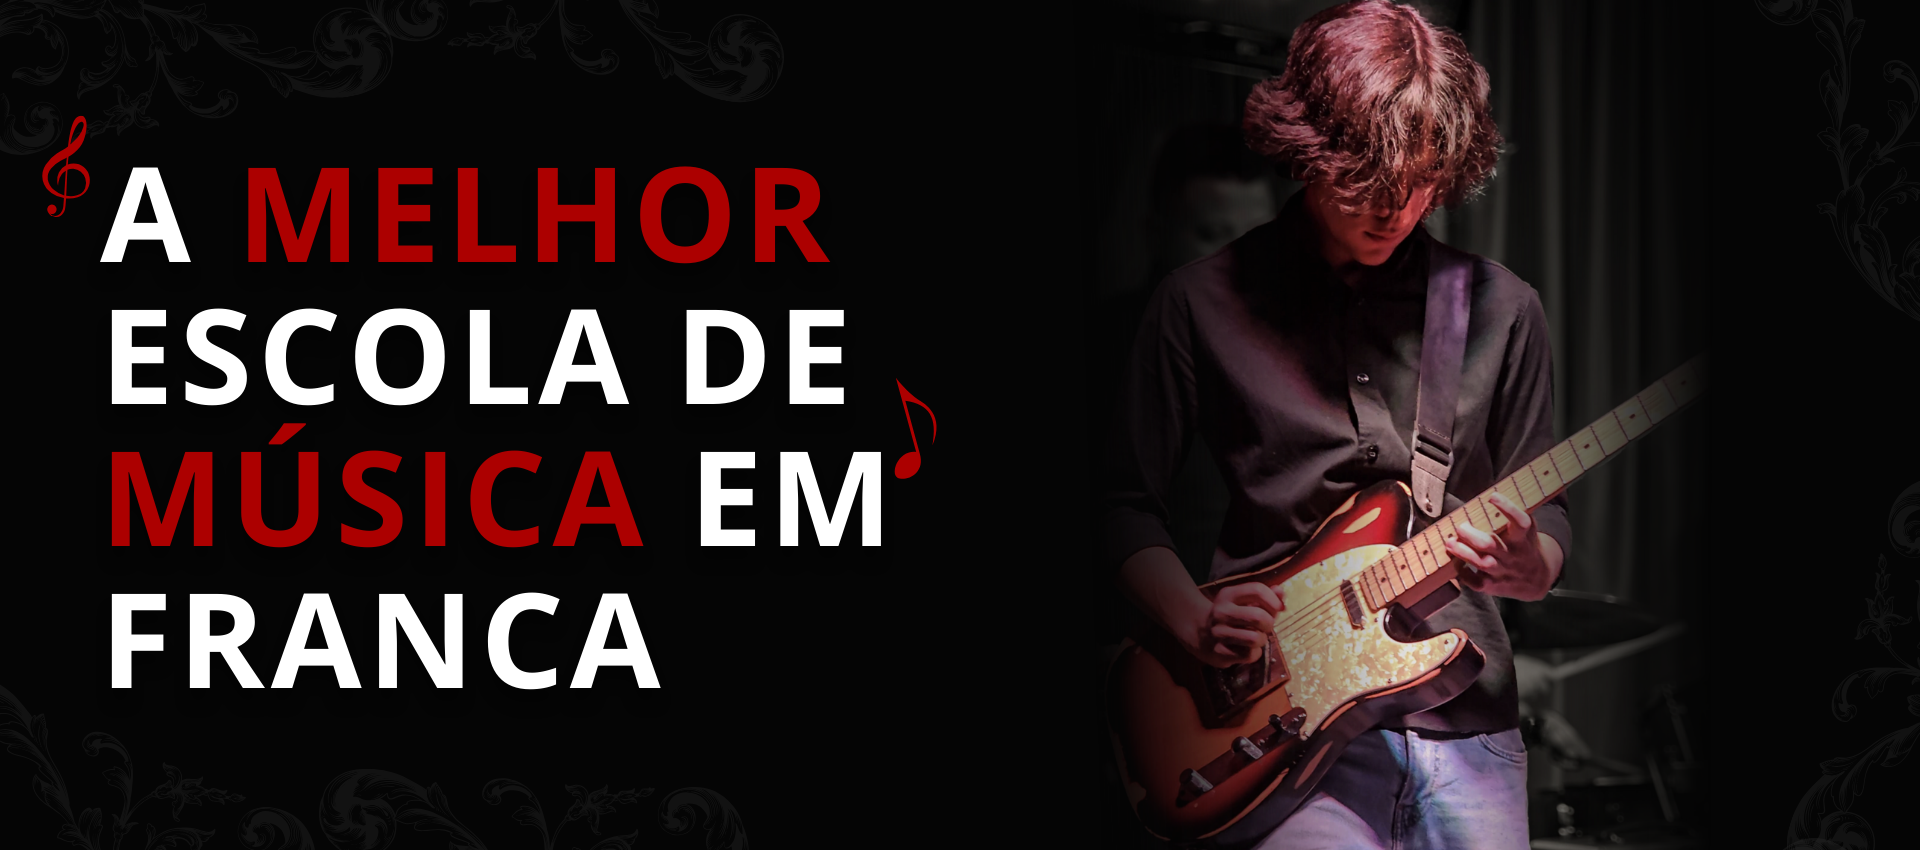
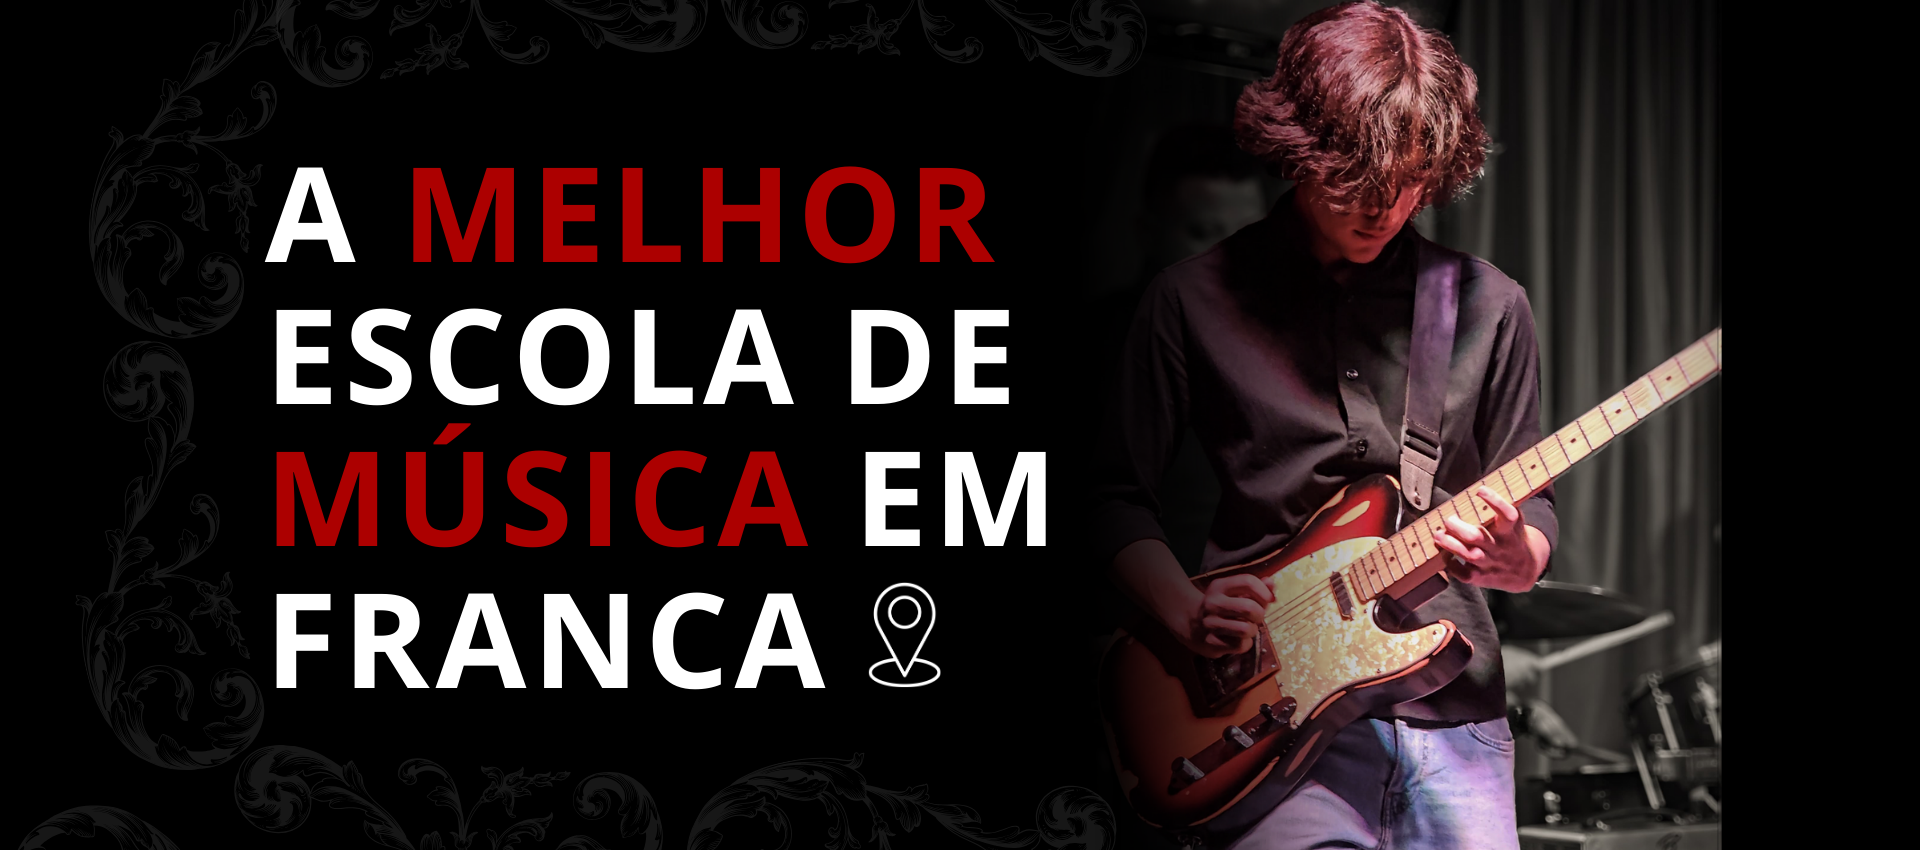
Alterações na responsividade e aba de contato atualizada

diff --git a/index.html b/index.html
@@ -15,15 +15,15 @@
             <!-- LOGO -->
             <div class="">
                 <a href="#home" class="flex items-center">
-                    <img src="assets/Logo.png" alt="Protazio Music Logo" class="w-64 h-20">
+                    <img src="assets/Logo.png" alt="Protazio Music Logo" class="xl:w-64 xl:h-20 w-44 h-16">
                 </a>
             </div>
             <!-- BOTÃO MOBILE -->
-            <button id="menu-btn" class="lg:hidden focus:outline-none">
+            <button id="menu-btn" class="xl:hidden focus:outline-none">
                 <img src="assets/Menu.png" alt="Menu" class="w-8 h-8">
             </button>
             <!-- MENU DESKTOP -->
-            <ul class="hidden lg:flex gap-10 text-2xl font-normal uppercase">
+            <ul class="hidden xl:flex gap-10 text-2xl font-normal uppercase">
                 <li><a href="#sobre" class="hover:text-red-700">Sobre</a></li>
                 <li><a href="#cursos" class="hover:text-red-700">Cursos</a></li>
                 <li><a href="#professores" class="hover:text-red-700">Professores</a></li>
@@ -32,7 +32,7 @@
             </ul>
         </div>
         <!-- MENU MOBILE -->
-        <div id="mobile-menu" class="hidden lg:hidden bg-black text-white px-8 pb-4">
+        <div id="mobile-menu" class="hidden xl:hidden bg-black text-white px-8 pb-4">
             <ul class="flex flex-col gap-4 text-xl font-normal uppercase">
                 <li><a href="#sobre" class="hover:text-red-700">Sobre</a></li>
                 <li><a href="#cursos" class="hover:text-red-700">Cursos</a></li>
@@ -53,7 +53,7 @@
     <section>
         <div class="relative w-full overflow-hidden">
             <div class="carousel flex transition-transform duration-500 ease-in-out">
-                <img src="assets/Banner1.png" class="w-full flex-shrink-0 object-cover" alt="Slide 1">
+                <img src="assets/Banner3.png" class="w-full flex-shrink-0 object-cover" alt="Slide 1">
                 <img src="assets/Banner2.png" class="w-full flex-shrink-0 object-cover" alt="Slide 2">
             </div>
             <!-- Botões -->
@@ -191,11 +191,51 @@
             <p class="md:mx-20 md:mt-10 mx-5 mt-5 md:text-4xl text-2xl leading-10 text-justify">Nosso Show de Alunos é um evento especial onde celebramos o talento e a dedicação dos nossos alunos. É a oportunidade perfeita para mostrar o que você aprendeu, tocar com outros músicos e se apresentar em um ambiente acolhedor e cheio de energia positiva.</p>
         </section>
         <!-- CONTATO -->
-        <section id="contato" class="bg-slate-50">
+        <section id="contato" class="bg-slate-50 pb-10">
             <H1 class="mt-20 uppercase text-center md:text-7xl text-5xl font-semibold text-black">Contato</H1>
-            <div class="grid grid-cols-1 lg:grid-cols-2 gap-8">
+            <div class="grid grid-cols-1 lg:grid-cols-2 gap-8 mx-10 my-20">
                 <div>
-                    <img src="" alt="">
+                    <img src="assets/Escola.webp" alt="Escola Protázio Music" class="w-full h-full rounded-2xl shadow-lg">
+                </div>
+                <div class="text-center text-black mx-10">
+                    <h2 class="uppercase text-5xl mb-5 font-medium">Vem se Juntar a escola!</h2>
+                    <p class="text-justify text-2xl my-3">Se você quer agendar uma aula experimental, tirar dúvidas ou saber mais sobre nossos cursos, responda o formulário!</p>
+                    <form action="mailto:seuemail@exemplo.com" method="POST" enctype="text/plain" class="space-y-4 max-w-lg text-left items-center">
+   
+                       <!-- Nome -->
+                       <div>
+                       <label for="nome" class="block font-medium">Nome</label>
+                       <input type="text" id="nome" name="nome" required 
+                               class="w-full p-2 border rounded-lg">
+                       </div>
+                       
+                       <!-- Email -->
+                       <div>
+                       <label for="email" class="block font-medium">Email</label>
+                       <input type="email" id="email" name="email" required 
+                               class="w-full p-2 border rounded-lg">
+                       </div>
+                       
+                       <!-- Telefone -->
+                       <div>
+                       <label for="telefone" class="block font-medium">Telefone</label>
+                       <input type="tel" id="telefone" name="telefone" 
+                               class="w-full p-2 border rounded-lg">
+                       </div>
+                       
+                       <!-- Mensagem -->
+                       <div>
+                       <label for="mensagem" class="block font-medium">Mensagem</label>
+                       <textarea id="mensagem" name="mensagem" rows="5" required 
+                                   class="w-full p-2 border rounded-lg"></textarea>
+                       </div>
+                       
+                       <!-- Botão -->
+                       <button type="submit" 
+                               class="bg-red-600 text-white px-8 py-4 rounded-lg hover:bg-red-700">
+                       Enviar
+                       </button>
+                   </form>
                 </div>
             </div>
         </section>
